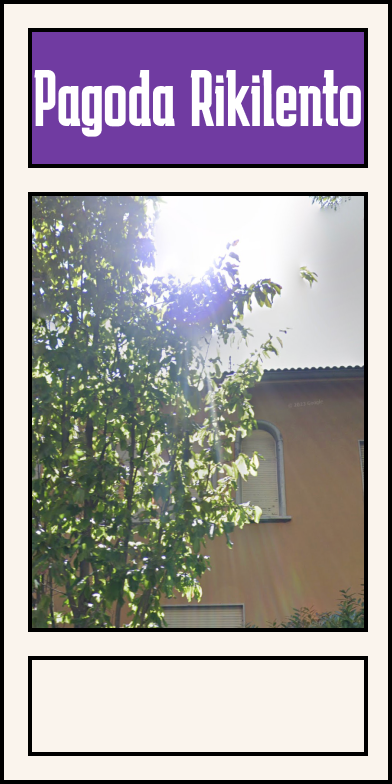
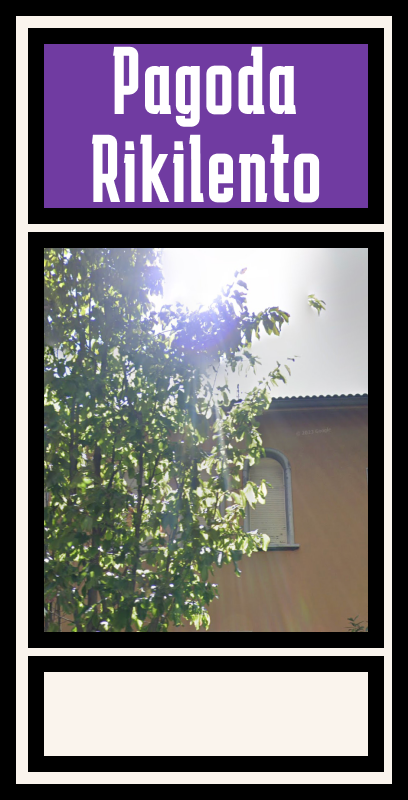
modified the tiles textures and tweaked their position to accomodate the thicker border

diff --git a/src/tile.cpp b/src/tile.cpp
@@ -30,7 +30,7 @@ void game::Tile::updateTexture() {
         int textWidth = MeasureText(str.c_str(), 110);
         int textX = this->editedImage.width / 2 - textWidth / 2;
 
-        ImageDrawText(&this->editedImage, str.c_str(), textX, 655, 110, BLACK);
+        ImageDrawText(&this->editedImage, str.c_str(), textX, 670, 100, BLACK);
         // ImageDrawTextEx(&this->editedImage,
         //                 LoadFont("resources/fonts/karantina.ttf"),
         //                 std::to_string(this->cost).c_str(),
@@ -60,31 +60,31 @@ std::vector<game::Tile> game::getTiles() {
         Tile("resources/tiles/kebz.png", 196*4, 882*4, 0, TileType::PROPERTY, 0, ""),
 
         Tile("resources/tiles/prison.png", 0, 882*4, 0, TileType::PRISON, 0, ""),
-        Tile("resources/tiles/probability.png", 196*4, (882-96)*4, 90, TileType::PROPERTY, 0, ""),
-        Tile("resources/tiles/acquarena.png", 196*4, (784-96)*4, 90, TileType::PROPERTY, 0, ""),
-        Tile("resources/tiles/acquarena.png", 196*4, (686-96)*4, 90, TileType::PROPERTY, 0, ""),
-        Tile("resources/tiles/bolzanosud.png", 196*4, (588-96)*4, 90, TileType::PROPERTY, 0, ""),
-        Tile("resources/tiles/max.png", 196*4, (490-96)*4, 90, TileType::PROPERTY, 0, ""),
-        Tile("resources/tiles/life.png", 196*4, (392-96)*4, 90, TileType::PROPERTY, 0, ""),
-        Tile("resources/tiles/baila.png", 196*4, (294-96)*4, 90, TileType::PROPERTY, 0, ""),
+        Tile("resources/tiles/probability.png", 200*4, (882-98)*4, 90, TileType::PROPERTY, 0, ""),
+        Tile("resources/tiles/acquarena.png", 200*4, (784-98)*4, 90, TileType::PROPERTY, 0, ""),
+        Tile("resources/tiles/acquarena.png", 200*4, (686-98)*4, 90, TileType::PROPERTY, 0, ""),
+        Tile("resources/tiles/bolzanosud.png", 200*4, (588-98)*4, 90, TileType::PROPERTY, 0, ""),
+        Tile("resources/tiles/max.png", 200*4, (490-98)*4, 90, TileType::PROPERTY, 0, ""),
+        Tile("resources/tiles/life.png", 200*4, (392-98)*4, 90, TileType::PROPERTY, 0, ""),
+        Tile("resources/tiles/baila.png", 200*4, (294-98)*4, 90, TileType::PROPERTY, 0, ""),
 
         Tile("resources/tiles/awards.png", 0, 0, 0, TileType::AWARDS, 0, ""),
-        Tile("resources/tiles/talvera.png", (196+96)*4, 196*4, 180, TileType::PROPERTY, 0, ""),
-        Tile("resources/tiles/yogurteria.png", (294+96)*4, 196*4, 180, TileType::PROPERTY, 0, ""),
-        Tile("resources/tiles/stationpark.png", (392+96)*4, 196*4, 180, TileType::PROPERTY, 0, ""),
-        Tile("resources/tiles/brixtown.png", (490+96)*4, 196*4, 180, TileType::PROPERTY, 0, ""),
-        Tile("resources/tiles/chance.png", (588+96)*4, 196*4, 180, TileType::PROPERTY, 0, ""),
-        Tile("resources/tiles/twenty.png", (686+96)*4, 196*4, 180, TileType::PROPERTY, 0, ""),
-        Tile("resources/tiles/noi.png", (784+96)*4, 196*4, 180, TileType::PROPERTY, 0, ""),
+        Tile("resources/tiles/talvera.png", (200+98)*4, 200*4, 180, TileType::PROPERTY, 0, ""),
+        Tile("resources/tiles/yogurteria.png", (298+98)*4, 200*4, 180, TileType::PROPERTY, 0, ""),
+        Tile("resources/tiles/stationpark.png", (396+98)*4, 200*4, 180, TileType::PROPERTY, 0, ""),
+        Tile("resources/tiles/brixtown.png", (494+98)*4, 200*4, 180, TileType::PROPERTY, 0, ""),
+        Tile("resources/tiles/chance.png", (592+98)*4, 200*4, 180, TileType::PROPERTY, 0, ""),
+        Tile("resources/tiles/twenty.png", (690+98)*4, 200*4, 180, TileType::PROPERTY, 0, ""),
+        Tile("resources/tiles/noi.png", (787+98)*4, 200*4, 180, TileType::PROPERTY, 0, ""),
 
         Tile("resources/tiles/police.png", 882*4, 0, 0, TileType::POLICE, 0, ""),
-        Tile("resources/tiles/baita.png", 882*4, 294*4, 270, TileType::PROPERTY, 0, ""),
-        Tile("resources/tiles/bronzolo.png", 882*4, 392*4, 270, TileType::PROPERTY, 0, ""),
-        Tile("resources/tiles/probability.png", 882*4, 490*4, 270, TileType::PROPERTY, 0, ""),
-        Tile("resources/tiles/fortezza.png", 882*4, 588*4, 270, TileType::PROPERTY, 0, ""),
-        Tile("resources/tiles/mino.png", 882*4, 686*4, 270, TileType::PROPERTY, 0, ""),
-        Tile("resources/tiles/chance.png", 882*4, 784*4, 270, TileType::PROPERTY, 0, ""),
-        Tile("resources/tiles/rikilento.png", 882*4, 882*4, 270, TileType::PROPERTY, 100, ""),
+        Tile("resources/tiles/baita.png", 882*4, 298*4, 270, TileType::PROPERTY, 0, ""),
+        Tile("resources/tiles/bronzolo.png", 882*4, 396*4, 270, TileType::PROPERTY, 0, ""),
+        Tile("resources/tiles/probability.png", 882*4, 494*4, 270, TileType::PROPERTY, 0, ""),
+        Tile("resources/tiles/fortezza.png", 882*4, 592*4, 270, TileType::PROPERTY, 0, ""),
+        Tile("resources/tiles/mino.png", 882*4, 690*4, 270, TileType::PROPERTY, 0, ""),
+        Tile("resources/tiles/chance.png", 882*4, 788*4, 270, TileType::PROPERTY, 0, ""),
+        Tile("resources/tiles/rikilento.png", 882*4, 886*4, 270, TileType::PROPERTY, 100, ""),
     };
     
     return tiles;

diff --git a/src/main.cpp b/src/main.cpp
@@ -39,9 +39,9 @@ int main(void) {
             // cam.followee = Vector2{588, 882};
             cam.targetZoom = 1.2f;
         }
-        if (IsKeyDown(KEY_H)) cam.followee.x -= 100;
-        if (IsKeyDown(KEY_J)) cam.followee.y += 100;
-        if (IsKeyDown(KEY_K)) cam.followee.y -= 100;
+        if (IsKeyDown(KEY_J)) cam.followee.x -= 100;
+        if (IsKeyDown(KEY_K)) cam.followee.y += 100;
+        if (IsKeyDown(KEY_I)) cam.followee.y -= 100;
         if (IsKeyDown(KEY_L)) cam.followee.x += 100;
         if (IsKeyDown(KEY_R)) cam.normalize();
 
